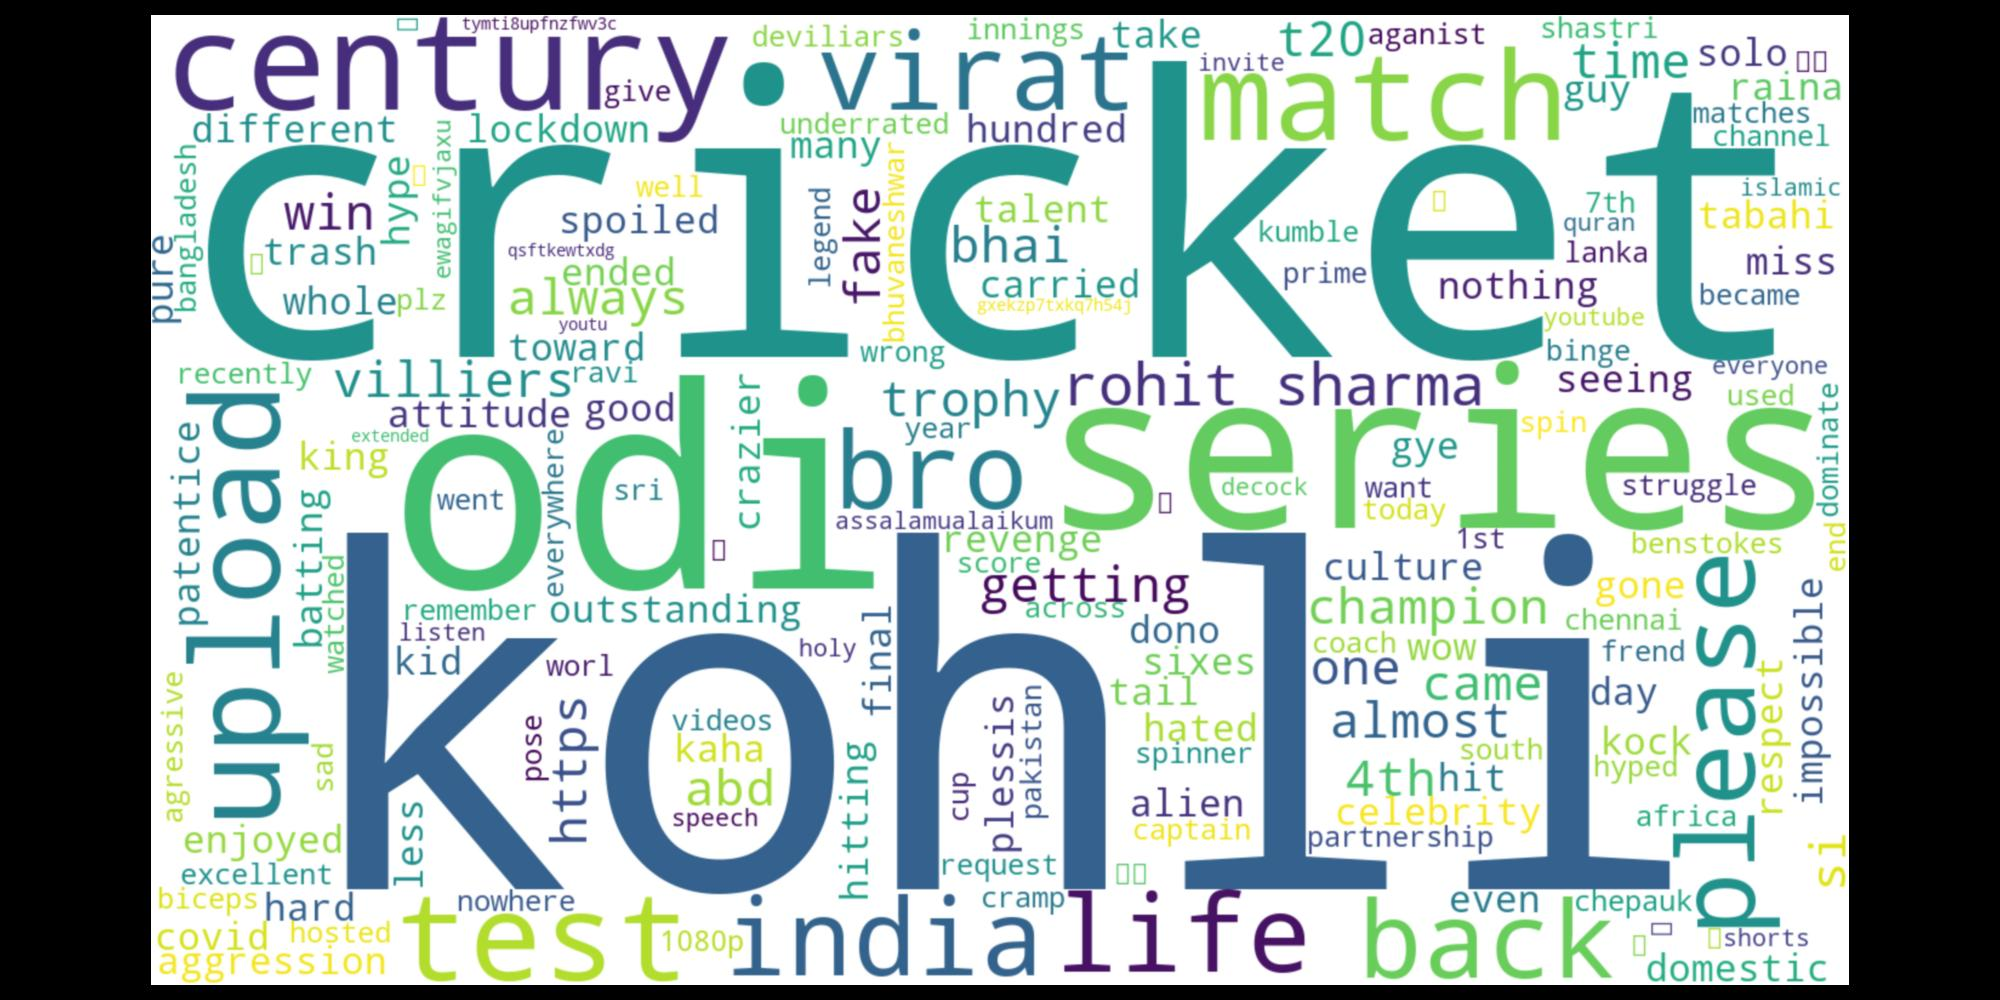
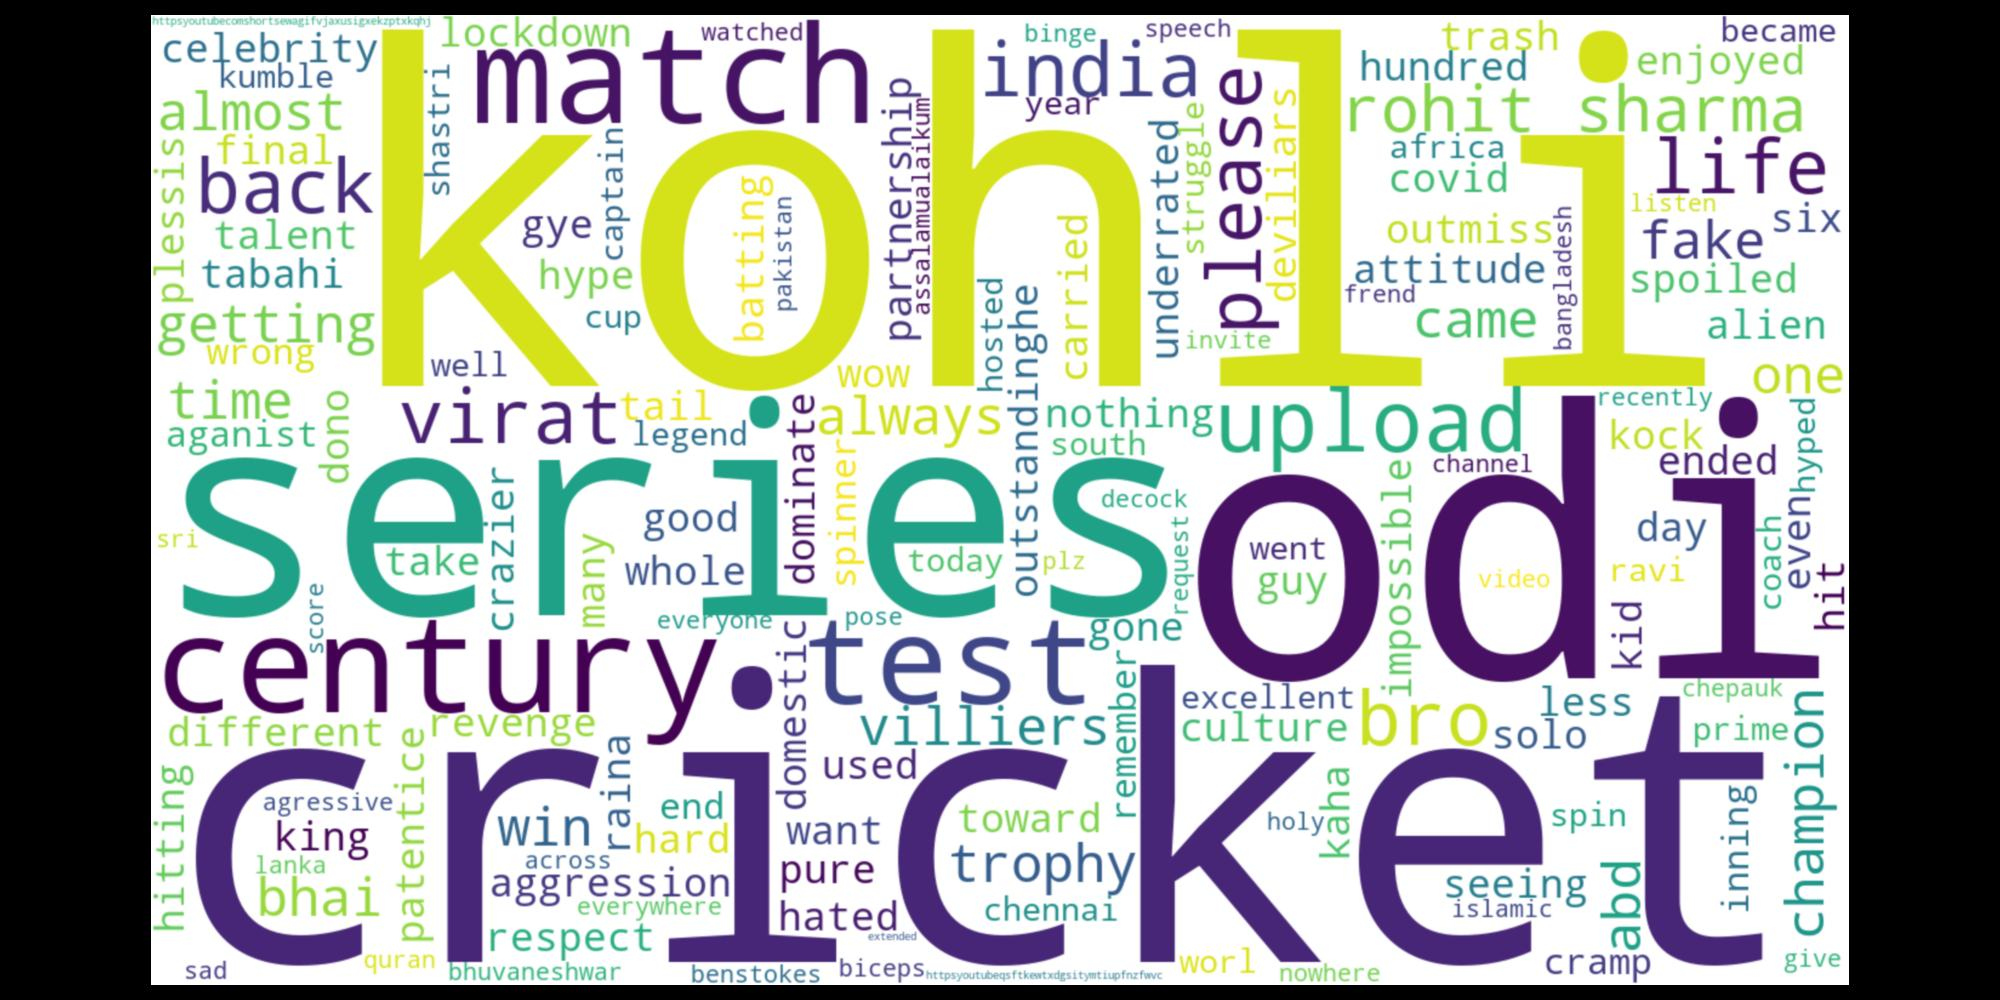
emoji excluded & irrelavant numericals

diff --git a/app.py b/app.py
@@ -4,7 +4,7 @@ import re
 import nltk
 import numpy as np
 import matplotlib
-matplotlib.use('Agg')
+matplotlib.use('Agg')# Use 'Agg' backend for Matplotlib to avoid GUI dependency
 import matplotlib.pyplot as plt
 from flask import Flask, render_template, request
 from selenium import webdriver
@@ -18,15 +18,15 @@ from nltk.sentiment.vader import SentimentIntensityAnalyzer
 from nltk.stem import WordNetLemmatizer
 from wordcloud import WordCloud, STOPWORDS
 
-# ✅ Fix 1: Set Matplotlib cache directory to a writable location
+#  Set Matplotlib cache directory to a writable location
 os.environ['MPLCONFIGDIR'] = "/tmp/matplotlib_cache"
 
-# ✅ Fix 2: Set NLTK Data Directory to a Writable Location
+#  Set NLTK Data Directory to a Writable Location
 NLTK_DATA_DIR = "/tmp/nltk_data"
 os.makedirs(NLTK_DATA_DIR, exist_ok=True)
 nltk.data.path.append(NLTK_DATA_DIR)
 
-# ✅ Fix: Download required NLTK resources only if they are missing
+#  Download required NLTK resources only if they are missing
 for package in ['vader_lexicon', 'stopwords', 'wordnet']:
     try:
         nltk.data.find(f'corpora/{package}')
@@ -78,10 +78,12 @@ def returnytcomments(url):
 
     return data
 
-# Function to Clean Comments
+# Function to Clean Comments (Removing stopwords, lemmatizing, and filtering)
 def clean(org_comments):
     cleaned = []
     for x in org_comments:
+        x = re.sub(r'[\U0001F600-\U0001F64F]', '', x)  # Remove emojis
+        x = re.sub(r'[^a-zA-Z\s]', '', x.lower().strip())  
         words = x.lower().strip().split()
         words = [w for w in words if w not in stop_words and len(w) > 2]
         words = [wnl.lemmatize(w) for w in words]
@@ -98,7 +100,7 @@ def create_wordcloud(clean_reviews):
     plt.axis("off")
     plt.tight_layout()
     
-    CleanCache(directory="static/img")
+    CleanCache(directory="static/img")# Clean previous cache before saving
     plt.savefig("static/img/word_cl.jpeg")
     plt.close()
 
@@ -150,7 +152,7 @@ def inference():
     clean_comments = clean(org_comments)
     create_wordcloud(clean_comments)
 
-    np, nn, nne = 0, 0, 0
+    np, nn, nne = 0, 0, 0 #  Counters for sentiment categories
     predictions, scores = [], []
 
     for comment in clean_comments:
